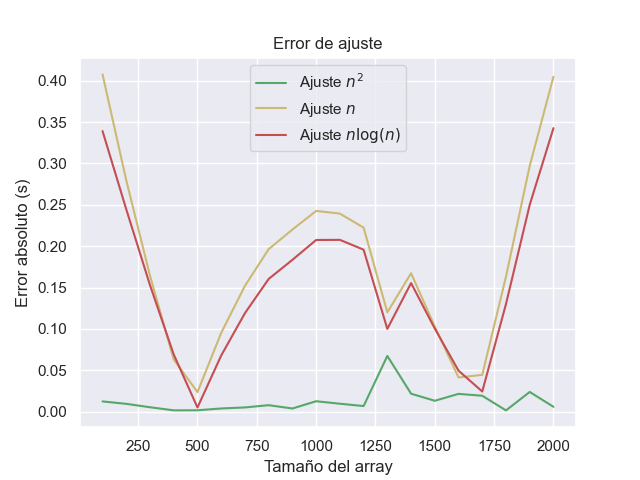
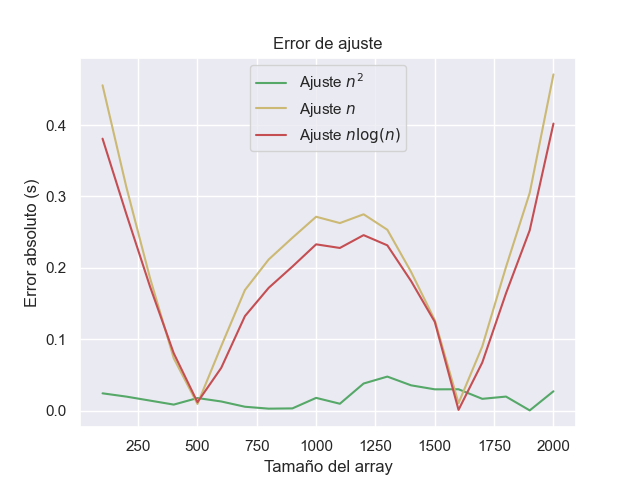
algunos cambios en la medicion, readme y mains de programas

diff --git a/src/main/mediciones.py b/src/main/mediciones.py
@@ -14,7 +14,7 @@ from juego_monedas_dinamico import juego_monedas_dinamico
 
 
 def get_random_array(size: int):
-    return np.random.randint(1, 100.000, size).tolist()
+    return np.random.randint(1, 1000, size).tolist()
 
 def mediciones_primera_parte_greedy():
     # Siempre seteamos la seed de aleatoridad para que los # resultados sean reproducibles
@@ -80,6 +80,18 @@ def mediciones_segunda_parte_dinamico():
 
     results = time_algorithm(juego_monedas_dinamico, x, lambda s: [get_random_array(s)])
 
+    ax: plt.Axes
+    fig, ax = plt.subplots()
+    ax.plot(x, [results[n] for n in x], label="Medición")
+    ax.set_title('Tiempo de ejecución de algoritmo dinamico')
+    ax.set_xlabel('Tamaño del array')
+    ax.set_ylabel('Tiempo de ejecución (s)')
+    ax.legend()
+    None
+    plt.show()
+    fig.savefig('dinamico_complejidad_cuadratico.png')
+
+
     f_n = lambda x, c1, c2: c1 * x + c2
     f_n2 = lambda x, c1, c2: c1 * x**2 + c2
     f_nlogn = lambda x, c1, c2: c1 * x * np.log(x) + c2 
@@ -94,7 +106,7 @@ def mediciones_segunda_parte_dinamico():
     ax.plot(x, [f_n(n, c_iter[0], c_iter[1]) for n in x], 'g--', label="Ajuste $n$")
     ax.plot(x, [f_n2(n, c_n2[0], c_n2[1]) for n in x], 'y--', label="Ajuste $n^2$")
     ax.plot(x, [f_nlogn(n, c_nlogn[0], c_nlogn[1]) for n in x], 'r--', label=r"Ajuste $n \log(n)$")
-    ax.set_title('Tiempo de ejecución de algoritmo dinamico')
+    ax.set_title('Tiempo de ejecución de algoritmo dinamico con ajustes')
     ax.set_xlabel('Tamaño del array')
     ax.set_ylabel('Tiempo de ejecución (s)')
     ax.legend()
@@ -126,10 +138,64 @@ def mediciones_segunda_parte_dinamico():
     plt.show()
     fig.savefig('dinamico_complejidad_error.png')
 
+
+def mediciones_segunda_parte_variabilidad_alta():
+    def get_random_array_s(size: int):
+        return np.random.randint(1, 100_000, size).tolist()
+        # Siempre seteamos la seed de aleatoridad para que los # resultados sean reproducibles
+    seed(12345)
+    np.random.seed(12345)
+    sns.set_theme()
+
+    # La variable x van a ser los valores del eje x de los gráficos en todo el notebook
+    # Tamaño mínimo=100, tamaño máximo=100.000 , cantidad de puntos=20
+    x = np.linspace(100, 2000, 20).astype(int)
+
+    results = time_algorithm(juego_monedas_dinamico, x, lambda s: [get_random_array_s(s)])
+
+    ax: plt.Axes
+    fig, ax = plt.subplots()
+    ax.plot(x, [results[n] for n in x], label="Medición")
+    ax.set_title('Tiempo de ejecución de algoritmo dinamico variabilidad baja')
+    ax.set_xlabel('Tamaño del array')
+    ax.set_ylabel('Tiempo de ejecución (s)')
+    ax.legend()
+    None
+    plt.show()
+    fig.savefig('dinamico_alta_variabilidad.png')
+
+
+def mediciones_segunda_parte_variabilidad_baja():
+    def get_random_array_s(size: int):
+        return np.random.randint(1, 10, size).tolist()
+        # Siempre seteamos la seed de aleatoridad para que los # resultados sean reproducibles
+    seed(12345)
+    np.random.seed(12345)
+    sns.set_theme()
+
+    # La variable x van a ser los valores del eje x de los gráficos en todo el notebook
+    # Tamaño mínimo=100, tamaño máximo=100.000 , cantidad de puntos=20
+    x = np.linspace(100, 2000, 20).astype(int)
+
+    results = time_algorithm(juego_monedas_dinamico, x, lambda s: [get_random_array_s(s)])
+
+    ax: plt.Axes
+    fig, ax = plt.subplots()
+    ax.plot(x, [results[n] for n in x], label="Medición")
+    ax.set_title('Tiempo de ejecución de algoritmo dinamico variabilidad alta')
+    ax.set_xlabel('Tamaño del array')
+    ax.set_ylabel('Tiempo de ejecución (s)')
+    ax.legend()
+    None
+    plt.show()
+    fig.savefig('dinamico_baja_variabilidad.png')
+
 if __name__ == "__main__":
     start_time = time.time()
     # mediciones_primera_parte_greedy()
-    mediciones_segunda_parte_dinamico()
+    # mediciones_segunda_parte_dinamico()
+    mediciones_segunda_parte_variabilidad_alta()
+    mediciones_segunda_parte_variabilidad_baja()
     end_time = time.time()
     elapsed_time = end_time - start_time
     print(f"Elapsed time: {elapsed_time:.2f} seconds")

diff --git a/src/main/juego_monedas.py b/src/main/juego_monedas.py
@@ -1,18 +1,19 @@
 import sys
-import os
 from collections import deque
-
 from data_loader import cargar_set_datos
+
+
+path_datos = "../../primera-parte-set-datos/"
 
 def obtener_mayor_moneda(monedas):
     if monedas[0] > monedas[-1]:
         return monedas.popleft(), "Primera moneda para Sophia"
     else:
-        return monedas.pop(), "Ultima moneda para Sophia"
+        return monedas.pop(), "Última moneda para Sophia"
 
 def obtener_menor_moneda(monedas):
     if monedas[0] >= monedas[-1]:
-        return monedas.pop(), "Ultima moneda para Mateo"
+        return monedas.pop(), "Última moneda para Mateo"
     else:
         return monedas.popleft(), "Primera moneda para Mateo"
 
@@ -38,24 +39,33 @@ def juego_monedas(monedas):
             append_solucion(resultado)
         turno_sophia = not turno_sophia
 
-    return solucion, suma_sophia, suma_mateo
+    return "; ".join(solucion), suma_sophia, suma_mateo
 
 if __name__ == "__main__":
-    if len(sys.argv) < 2:
-        print("Debe ingresar la direccion de un archivo de texto")
+    nombre_archivo = ""
+    
+    if len(sys.argv) > 1:
+        nombre_archivo = sys.argv[1]
+    else:
+        nombre_archivo = input("Ingrese el nombre del archivo contenedor de datos: ")
 
-    dir = sys.argv[1]
-    print(dir)
-    # Descomentar si no toma los argumentos bien para testear
-    # dir = os.path.abspath(os.path.join(os.path.dirname(__file__), '../../primera-parte-set-datos/25.txt'))
-    monedas = cargar_set_datos(dir)
-    print("Monedas iniciales")
-    print(monedas)
+    monedas = cargar_set_datos(nombre_archivo)
+    solucion, suma_sofia, suma_mateo = juego_monedas(monedas)
 
-    solucion, suma_sofia, _ = juego_monedas(monedas)
+    total_monedas = sum(monedas)
 
     print(solucion)
     print("Ganancia de Sophia: ", suma_sofia)
+    
+    assert (
+            suma_sofia + suma_mateo == total_monedas
+    ),f"la suma de puntajes ({suma_sofia + suma_mateo}) no coincide con el total de las monedas ({total_monedas})."
+
+    assert (
+            suma_sofia >= suma_mateo
+    ),f"Pierde Sophia con un valor acumulado de: ({suma_sofia}) y el valor acumulado de Mateo ({suma_mateo}) )."
+    
+
 
 
     

diff --git a/src/main/juego_monedas_dinamico.py b/src/main/juego_monedas_dinamico.py
@@ -2,7 +2,9 @@ from collections import deque
 import time
 from data_loader import cargar_set_datos
 import os
+import sys
 
+path_datos = "../../segunda-parte-set-datos/"
 
 def juego_monedas_dinamico(coins):
     n = len(coins)
@@ -37,9 +39,8 @@ def juego_monedas_dinamico(coins):
 
     puntaje_sophia = opt[0][n-1]
     puntaje_mateo = sum(coins) - puntaje_sophia
-
+    
     return puntaje_sophia, puntaje_mateo, reconstruccion(coins, opt)
-
 
 def reconstruccion(coins, opt):
     elecciones = []
@@ -76,21 +77,28 @@ def reconstruccion(coins, opt):
 
 
 if __name__ == "__main__":
+    nombre_archivo = ""
+
+    if len(sys.argv) > 1:
+        nombre_archivo = sys.argv[1]
+    else:
+        nombre_archivo = input("Ingrese el nombre del archivo contenedor de datos: ")
+
 
     start_time = time.time()
 
-    dir = os.path.abspath(os.path.join(os.path.dirname(__file__), '../../segunda-parte-set-datos/20.txt'))
-    monedas = cargar_set_datos(dir)
+    monedas = cargar_set_datos(nombre_archivo)
 
     ganancia_sophia, ganancia_mateo, choices = juego_monedas_dinamico(monedas)
 
-    print("Recuento:")
-    print(f"Ganancia Sophia: {ganancia_sophia}")
-    print(f"Ganancia Mateo: {ganancia_mateo}")
-
+    total_monedas = ganancia_sophia + ganancia_mateo
+    assert (
+            ganancia_sophia + ganancia_mateo == total_monedas
+    ),f"la suma de puntajes ({ganancia_sophia + ganancia_mateo}) no coincide con el total de las monedas ({total_monedas})."
 
     print(choices)
-
+    print(f"Ganancia Sophia: {ganancia_sophia}")
+    print(f"Ganancia Mateo: {ganancia_mateo}")
     end_time = time.time()
     execution_time = end_time - start_time
     # print(f"Tiempo de ejecución: {execution_time:.6f} segundos")

diff --git a/src/test/juego_moneda_test.py b/src/test/juego_moneda_test.py
@@ -16,27 +16,20 @@ from juego_monedas import juego_monedas
 class TestJuegoMonedas(unittest.TestCase):
     
     def test_ejemplo_5(self):
-        acciones_esperadas = [
-            "Primera moneda para Sophia", 
-            "Ultima moneda para Mateo", 
-            "Ultima moneda para Sophia", # Si las dos son iguales, agarra la ultima
-            "Ultima moneda para Mateo", 
-            "Ultima moneda para Sophia", # Si solo hay una, agarra la ultima
-        ]
+
 
         ganancia_esperada = 50+50+50
         
         monedas = [50, 50, 15, 50, 25]
 
-        acciones_obtenidas, ganancia, _ = juego_monedas(monedas)      
+        _, ganancia, _ = juego_monedas(monedas)      
 
-        self.assertEqual(acciones_obtenidas, acciones_esperadas)
         self.assertEqual(ganancia, ganancia_esperada)
 
     def test_siempre_gana_sophia(self):
         random.seed(12345)
         monedas = [random.randint(1, 1000) for _ in range(50)]
-        num_sorts = 10  # Número de ordenamientos aleatorios a realizar
+        num_sorts = 25  # Número de ordenamientos aleatorios a realizar
 
         for _ in range(num_sorts):
             random.shuffle(monedas)

diff --git a/README.md b/README.md
@@ -14,31 +14,39 @@ Nazareno Napolitano, 107910
 
 Ramiro Besse Molina, 110657
 
-
 # Juego de Monedas
 
 Este juego consiste de "dos" jugadores, Sophia y Mateo, donde seleccionan monedas de una lista, en cada turno se puede elegir entre la primer y ultima moneda. Sophia siempre elige la mayor moneda en su turno, y como Mateo es todavia muy pequeño, Sophia le elige la moneda en su turno, es buena hermana pero como es muy competitiva siempre elige la menor para el pequeño Mateo.
 
 ## Requisitos
+
 - Python 3.x
 
 ## Instrucciones para ejecutar el programa
 
 1. Clona este repositorio:
-    ```bash
-    git clone https://github.com/lucas96will/tda-tp-async.git
-    cd tda-tp-async
-    ```
+   ```bash
+   git clone https://github.com/lucas96will/tda-tp-async.git
+   cd tda-tp-async
+   ```
 2. Crea un archivo de texto con los valores de las monedas, alternativamente puedes usar los que se encuentran en primera-parte-set-datos. Tiene que seguir el formato del siguiente ejemplo:
-    ```valores_monedas.txt
-    72;165;794;892;880;341;882;570;679;725;979;375;459;603;112;436;587;699;681;83
-    ```
+   ```valores_monedas.txt
+   72;165;794;892;880;341;882;570;679;725;979;375;459;603;112;436;587;699;681;83
+   ```
 3. Ejecutar el programa
-    ```bash
-    python src/main/juego.py "PATH_AL_ARCHIVO_CON_VALORES_DE_MONEDAS"
-    ```
-4. La salida esperada del programa, ejemplo con el set de datos de 25 monedas.
-    ```
-    ['Ultima moneda para Sophia', 'Ultima moneda para Mateo', 'Primera moneda para Sophia', 'Ultima moneda para Mateo', 'Primera moneda para Sophia', 'Ultima moneda para Mateo', 'Ultima moneda para Sophia', 'Primera moneda para Mateo', 'Ultima moneda para Sophia', 'Ultima moneda para Mateo', 'Primera moneda para Sophia', 'Ultima moneda para Mateo', 'Ultima moneda para Sophia', 'Ultima moneda para Mateo', 'Primera moneda para Sophia', 'Primera moneda para Mateo', 'Primera moneda para Sophia', 'Primera moneda para Mateo', 'Ultima moneda para Sophia', 'Ultima moneda para Mateo', 'Ultima moneda para Sophia', 'Primera moneda para Mateo', 'Primera moneda para Sophia', 'Ultima moneda para Mateo', 'Ultima moneda para Sophia']
-    Ganancia de Sophia: 9635
-    ```
+
+   ```bash
+   python src/main/juego_moneda.py "PATH_AL_ARCHIVO_CON_VALORES_DE_MONEDAS"
+
+   Ejemplo primera parte
+   python src/main/juego_moneda.py primera-parte-set-datos/25.txt
+
+   Ejemplo segunda parte
+   python src/main/juego_moneda_dinamico.py segunda-parte-set-datos/20.txt
+   ```
+
+4. La salida esperada del programa, ejemplo con el set de datos de 25 monedas de la primera parte
+   ```
+   ['Ultima moneda para Sophia', 'Ultima moneda para Mateo', 'Primera moneda para Sophia', 'Ultima moneda para Mateo', 'Primera moneda para Sophia', 'Ultima moneda para Mateo', 'Ultima moneda para Sophia', 'Primera moneda para Mateo', 'Ultima moneda para Sophia', 'Ultima moneda para Mateo', 'Primera moneda para Sophia', 'Ultima moneda para Mateo', 'Ultima moneda para Sophia', 'Ultima moneda para Mateo', 'Primera moneda para Sophia', 'Primera moneda para Mateo', 'Primera moneda para Sophia', 'Primera moneda para Mateo', 'Ultima moneda para Sophia', 'Ultima moneda para Mateo', 'Ultima moneda para Sophia', 'Primera moneda para Mateo', 'Primera moneda para Sophia', 'Ultima moneda para Mateo', 'Ultima moneda para Sophia']
+   Ganancia de Sophia: 9635
+   ```
